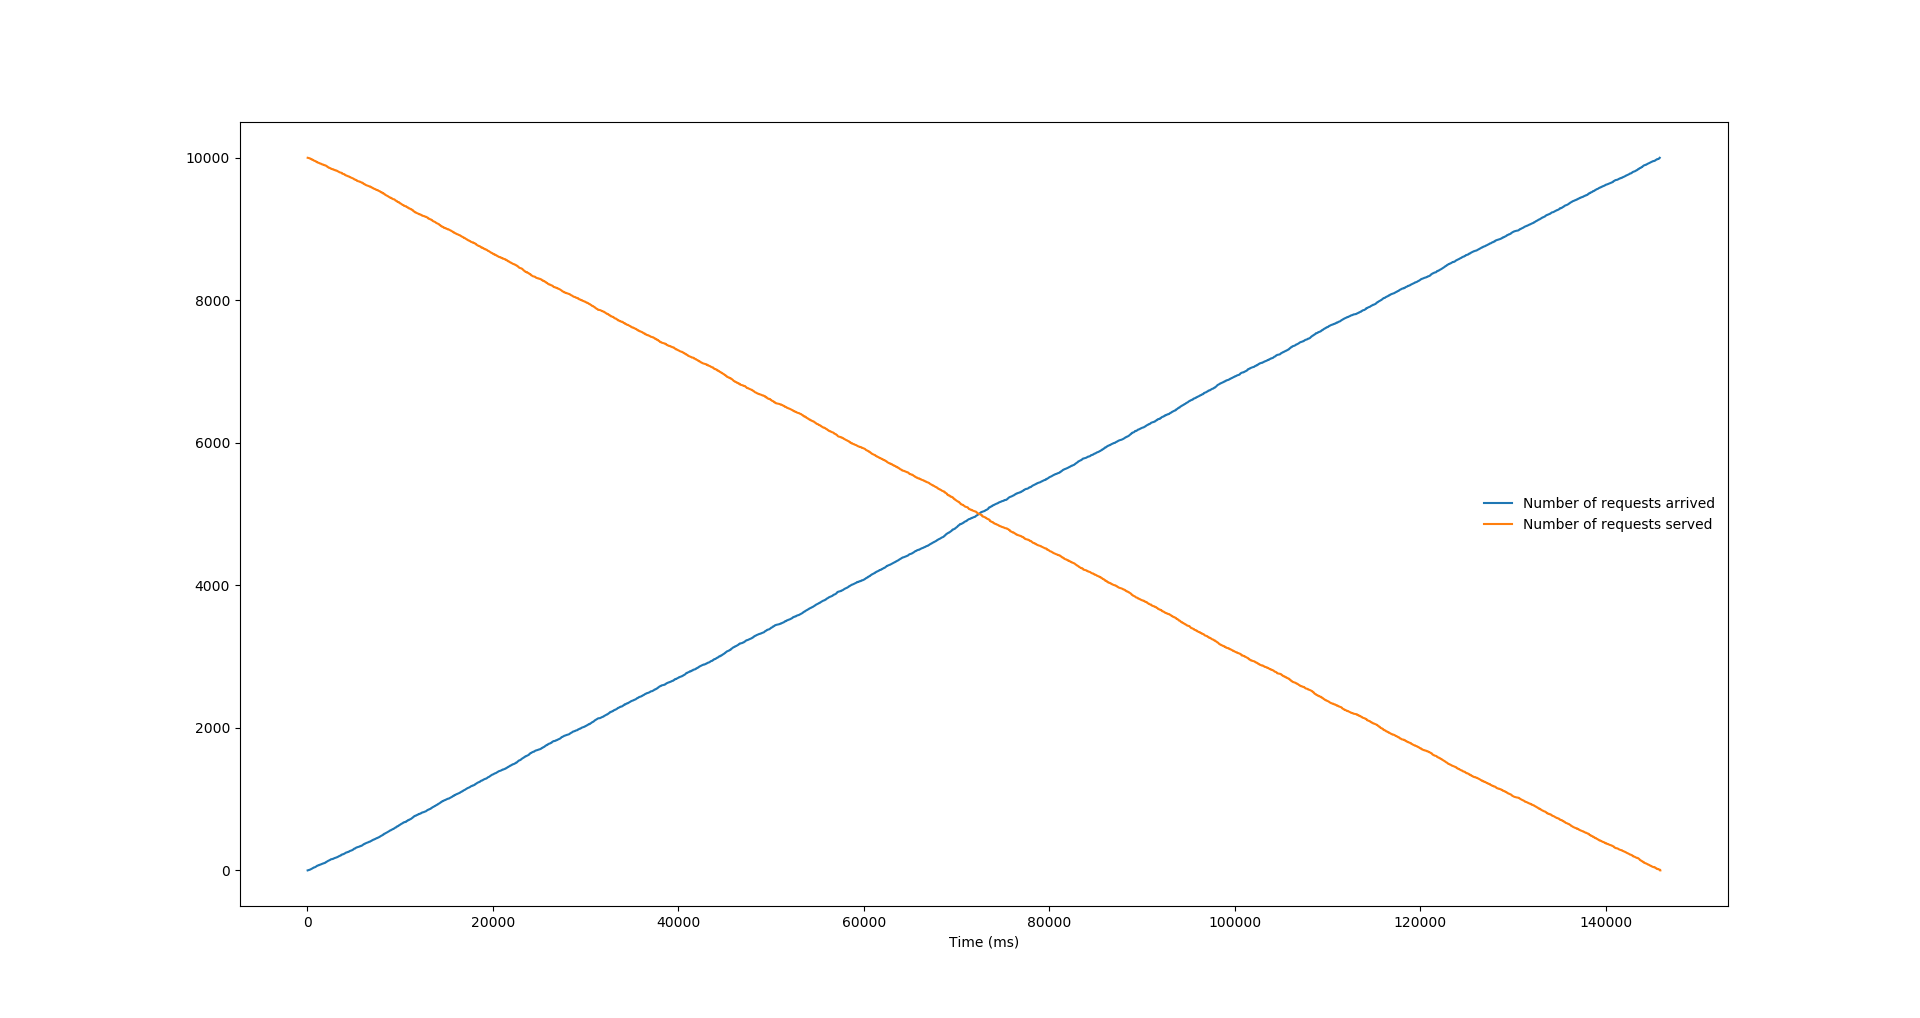
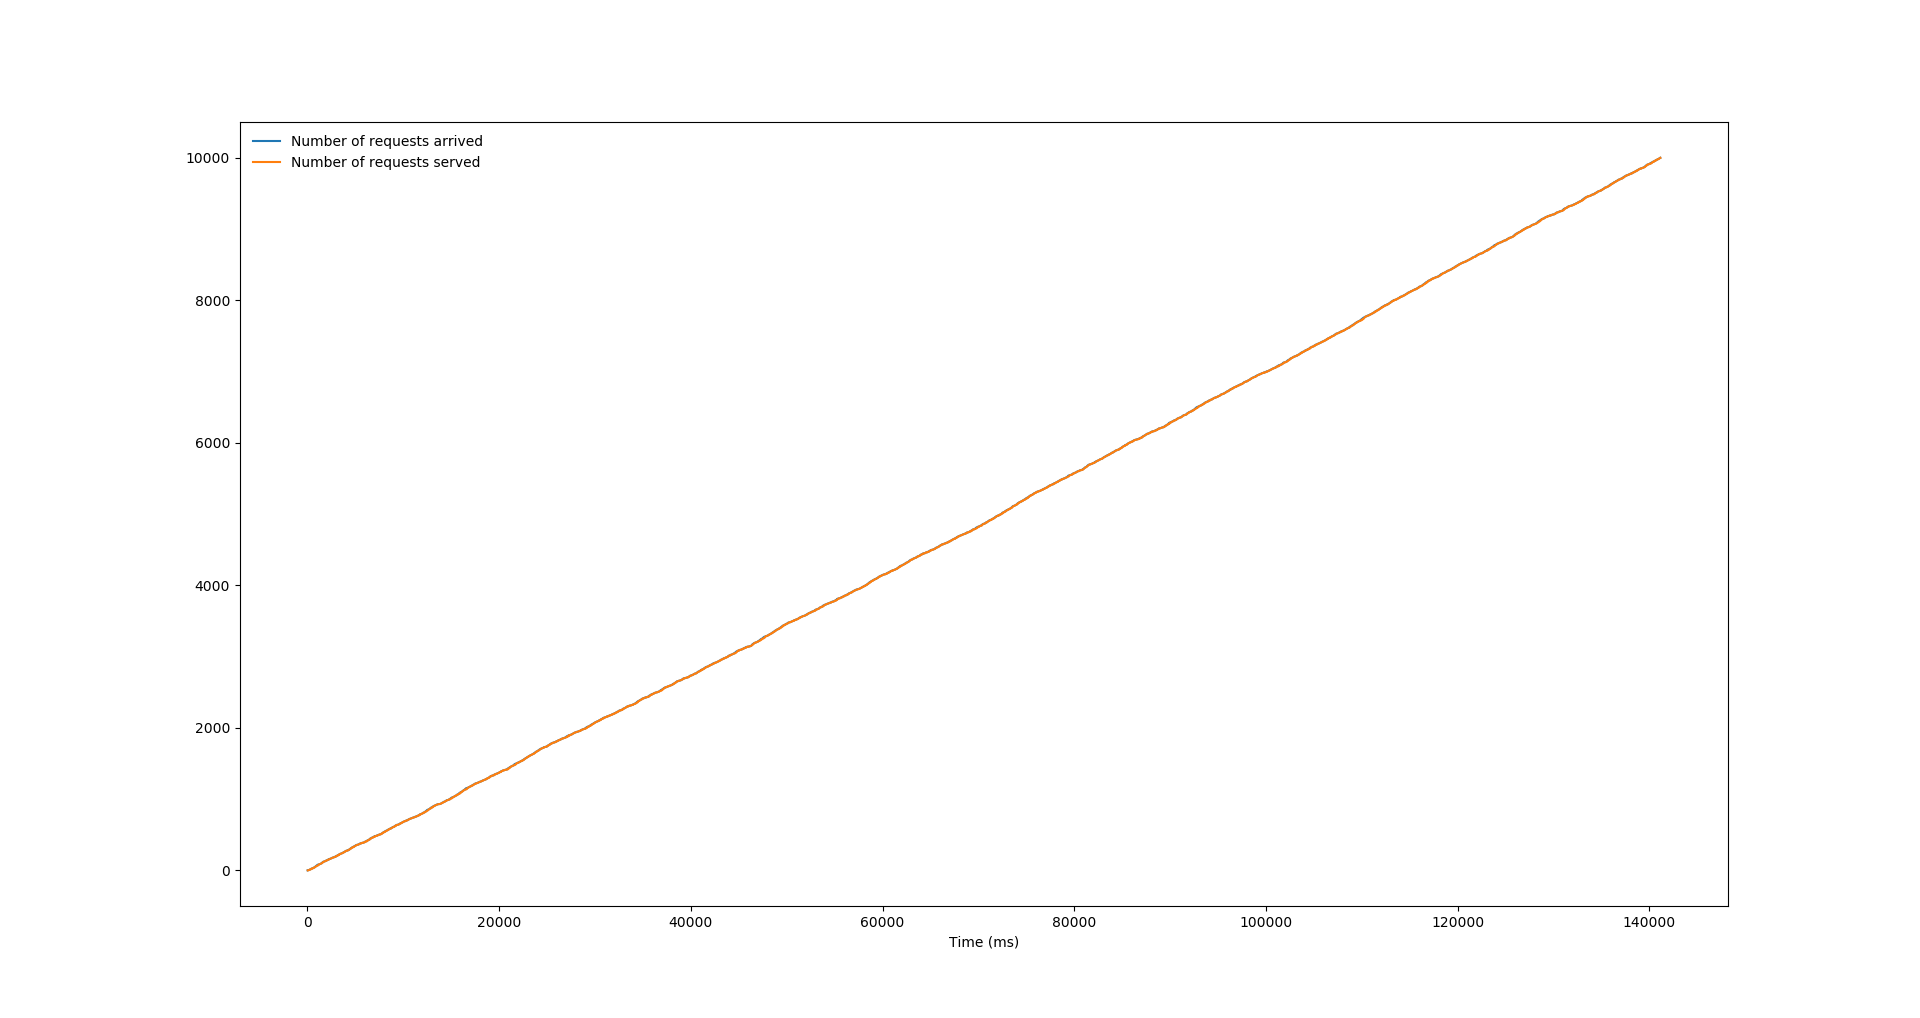
.

diff --git a/HW3/Q2.py b/HW3/Q2.py
@@ -9,7 +9,7 @@ from simulator import Simulator
 
 fig, axes = plt.subplots(nrows=3, ncols=3)
 
-for i, lambda_ in enumerate(range(50, 251, 25)):
+for i, lambda_ in enumerate(range(105, 114, 1)):
   sim = Simulator(lambda_=lambda_)
   results = sim.simulate(num_run=1)
   _, types_deltas_inq = results[0]
@@ -20,6 +20,7 @@ for i, lambda_ in enumerate(range(50, 251, 25)):
   df_final = pd.DataFrame()
   df_final['Time (ms)'] = df['time']
   df_final['Total number of process in queue'] = df['change all'].cumsum(axis=0)
+  df_final[df_final < 0] = 0
 
   print(int(i/3), int(i%3))
   df_final.iloc[::1000, :].plot(x='Time (ms)', ax=axes[int(i/3), int(i%3)])

diff --git a/HW3/Q1.py b/HW3/Q1.py
@@ -30,6 +30,7 @@ df_final['Time (ms)'] = df['time']
 df_final['Total number of process in queue'] = df['change all'].cumsum(axis=0)
 df_final['Number of type 1 process in queue'] = df['change type 1'].cumsum(axis=0)
 df_final['Number of type 2 process in queue'] = df['change type 2'].cumsum(axis=0)
+df_final[df_final < 0] = 0
 df_final.iloc[::1000, :].plot(x='Time (ms)')
 plt.show()
 

diff --git a/HW3/Q4.py b/HW3/Q4.py
@@ -5,7 +5,7 @@ import numpy as np
 import pandas as pd
 
 l70 = np.loadtxt('n50_l70.gz')[::1000]
-l108 = np.loadtxt('n50_l108.gz')[::1000]
+#l108 = np.loadtxt('n50_l108.gz')[::1000]
 
 def first_positive(N):
   for i, n in enumerate(N):
